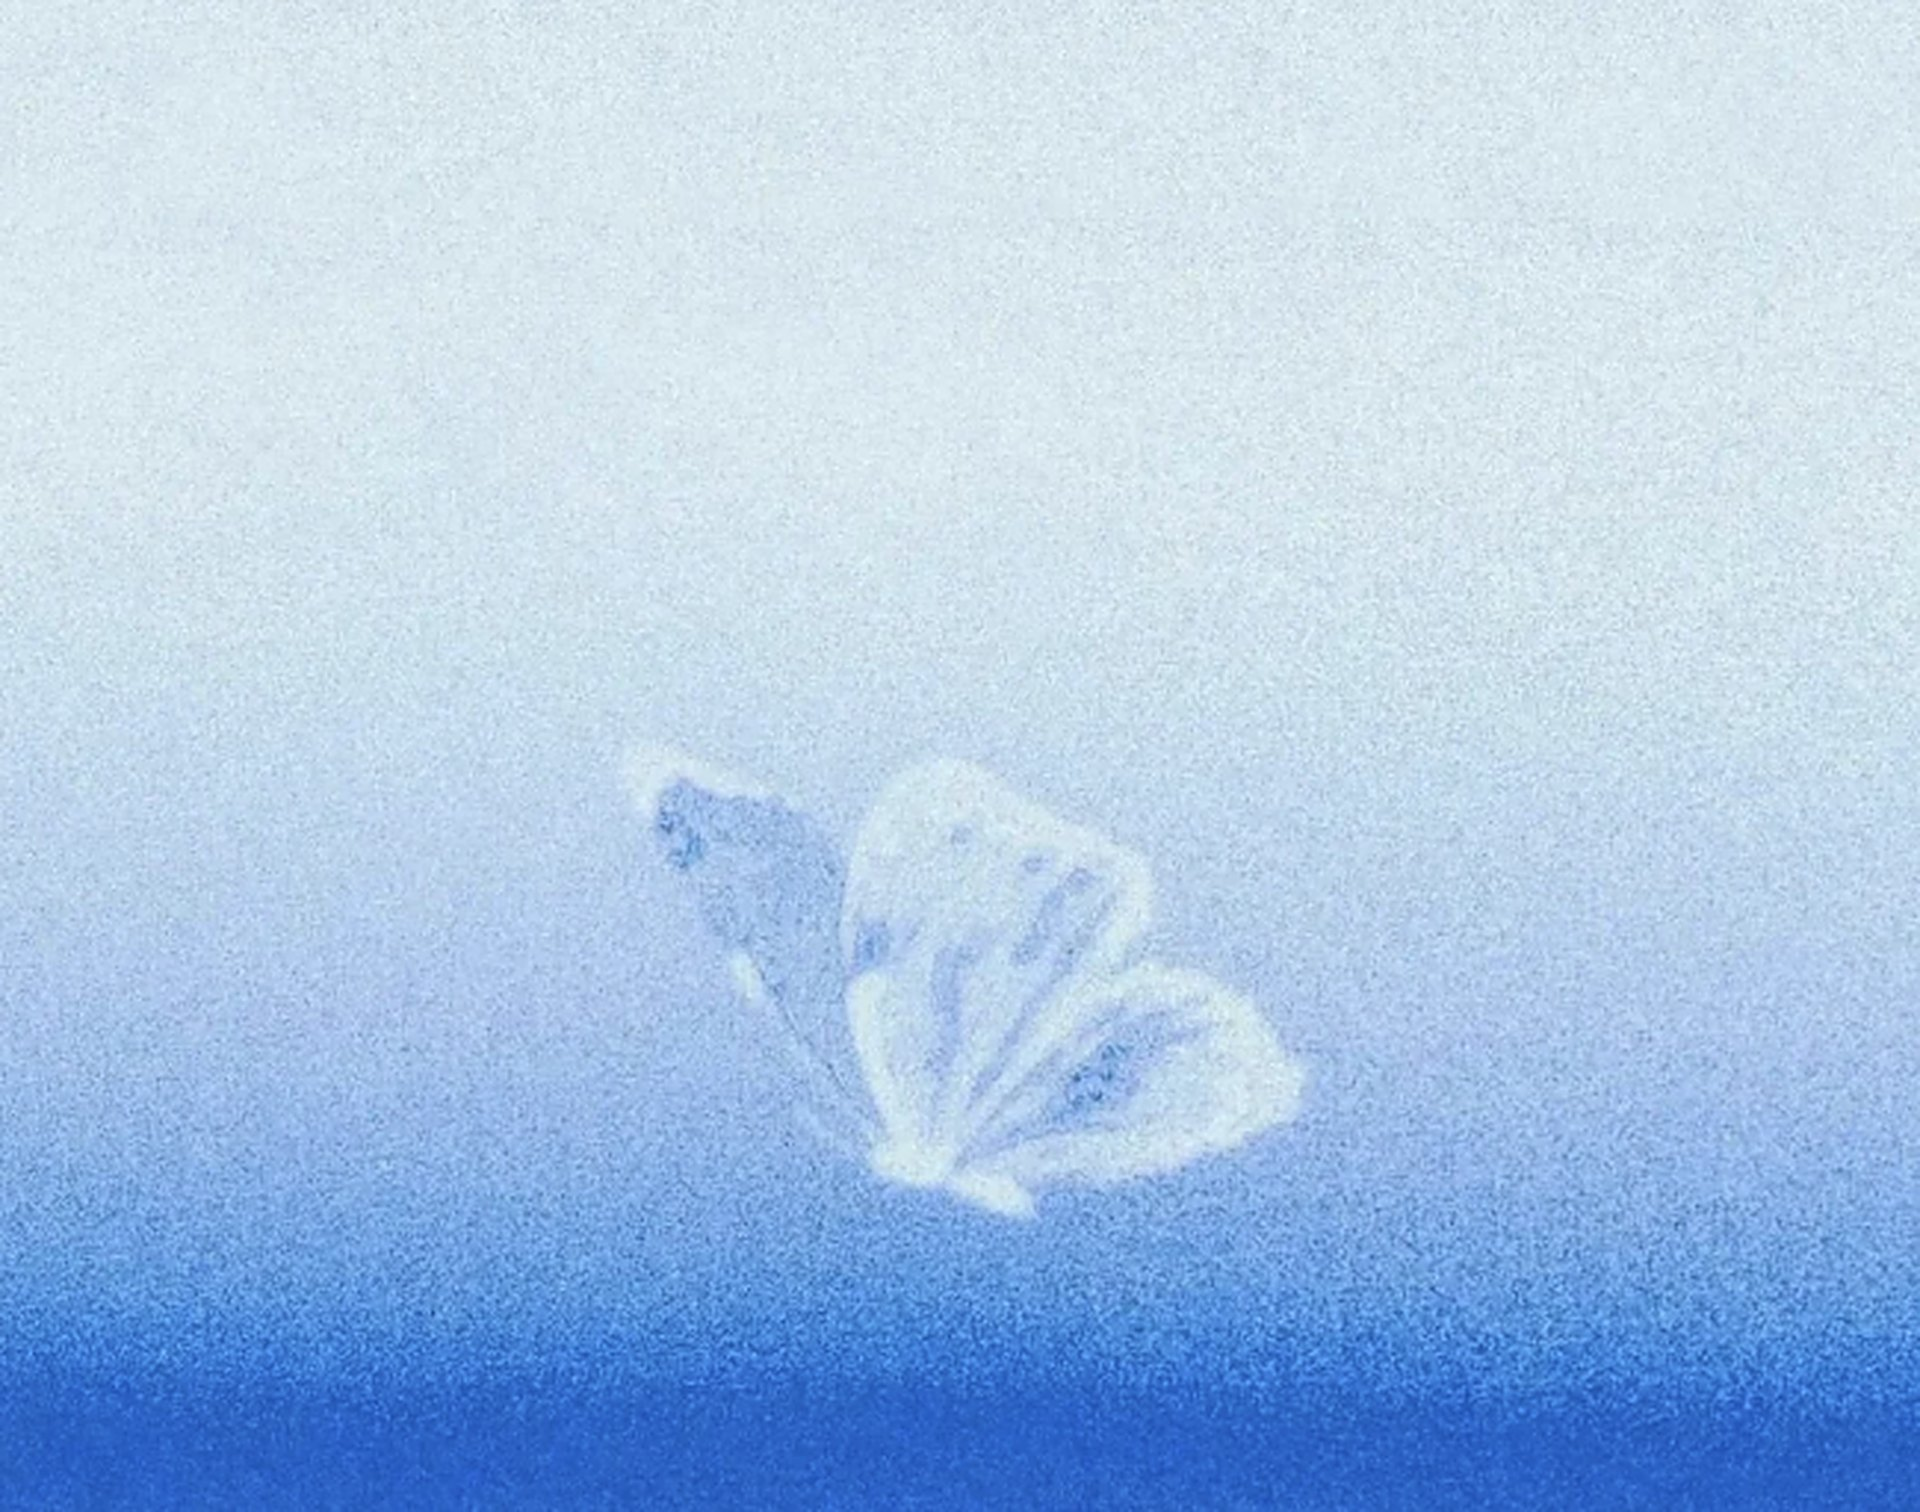
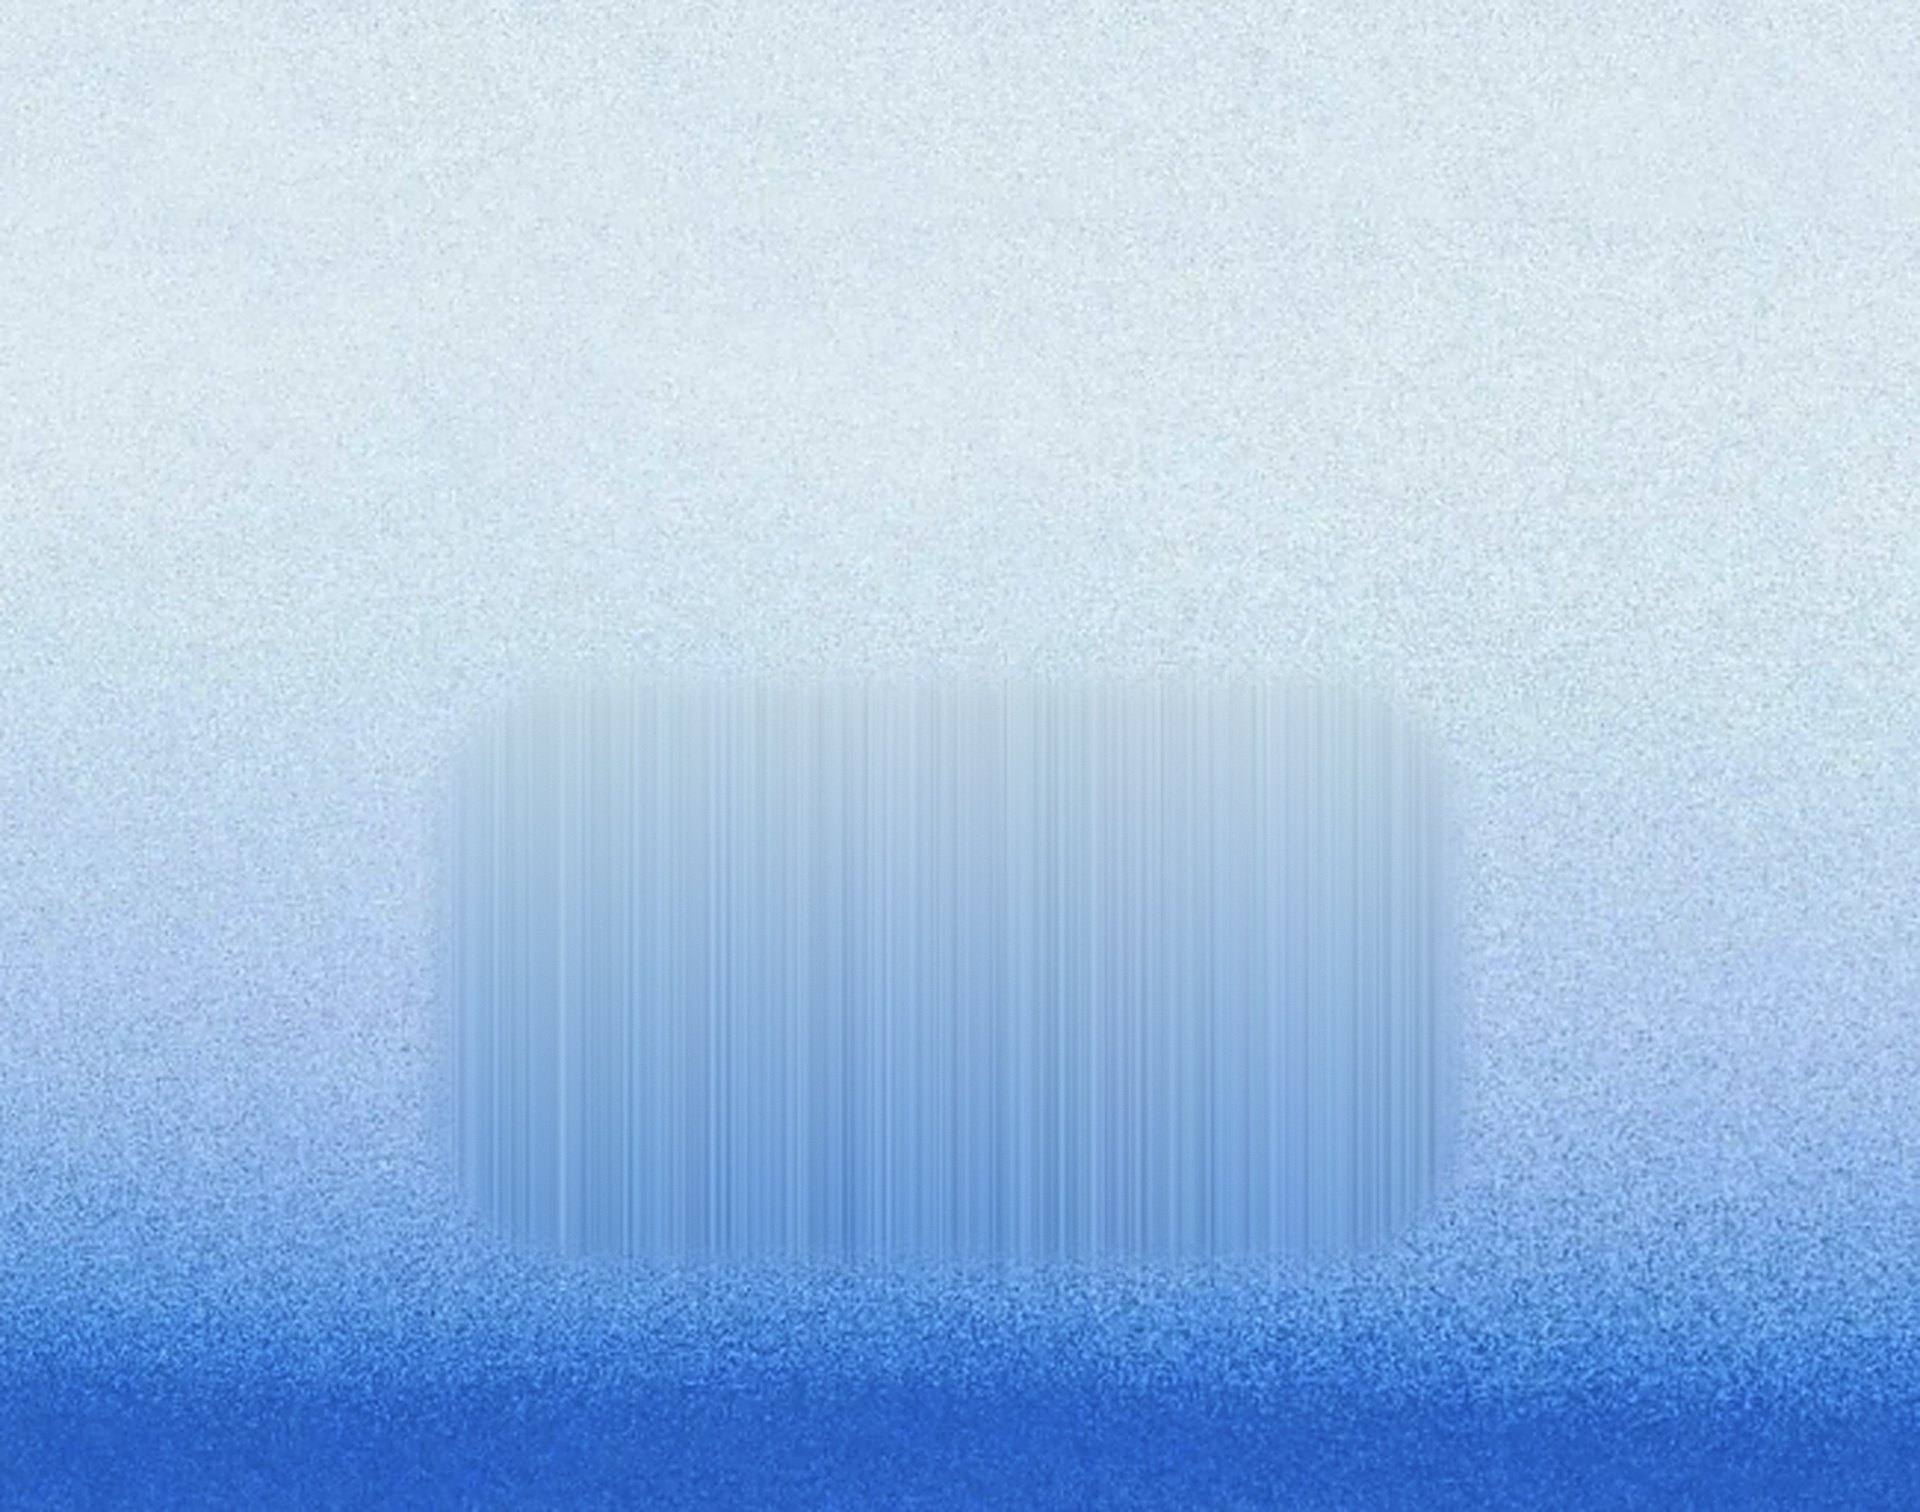
feat: 蝴蝶独立图层——Pillow蓝度键控抠图+背景原位修补，CSS微微扇动(3.4s)，JS cover对齐

Changed region(s): [[0.2188, 0.4663, 0.75, 0.8393]]

diff --git a/public/style.css b/public/style.css
@@ -289,9 +289,27 @@ body {
   background: url('bg.jpg') center / cover no-repeat;
 }
 
-/* 系统开启"减少动态效果"时隐藏浮光 */
+/* 蝴蝶独立图层：从油画中抠出，JS 按 cover 定位对齐，CSS 微扇动 */
+.bg-butterfly {
+  position: absolute;
+  pointer-events: none;
+  will-change: transform;
+  transform-origin: 50% 46%;
+  filter: drop-shadow(0 0 18px rgba(255, 255, 255, 0.32));
+  animation: flutter 3.4s ease-in-out infinite;
+}
+
+/* 微微扇动：水平轻收=合翅感 + 轻微上浮 + 姿态摇摆（低刺激） */
+@keyframes flutter {
+  0%, 100% { transform: scale(1, 1) rotate(-1deg) translateY(0); }
+  28%      { transform: scale(0.94, 1.02) rotate(0.5deg) translateY(-4px); }
+  52%      { transform: scale(1, 1.03) rotate(1.1deg) translateY(-8px); }
+  76%      { transform: scale(0.95, 1.01) rotate(0.3deg) translateY(-3px); }
+}
+
+/* 系统开启"减少动态效果"时蝴蝶静止 */
 @media (prefers-reduced-motion: reduce) {
-  .light-dot { animation: none !important; display: none; }
+  .bg-butterfly { animation: none !important; }
 }
 
 /* ============ UI 卡片化（浮于水彩之上） ============ */

diff --git a/public/index.html b/public/index.html
@@ -4,11 +4,13 @@
   <meta charset="UTF-8">
   <meta name="viewport" content="width=device-width, initial-scale=1.0">
   <title>情绪空间 · 高敏感人群情绪疏导</title>
-  <link rel="stylesheet" href="style.css?v=20261020">
+  <link rel="stylesheet" href="style.css?v=20261021">
 </head>
 <body>
-  <!-- 背景：油画风白蓝幕布（上白下蓝自然过渡，蝴蝶常驻，带油画颗粒） -->
-  <div class="bg-photo" aria-hidden="true"></div>
+  <!-- 背景：油画风白蓝幕布（上白下蓝自然过渡，带油画颗粒）+ 独立蝴蝶图层（微微扇动） -->
+  <div class="bg-photo" aria-hidden="true">
+    <img class="bg-butterfly" id="bgButterfly" src="butterfly.webp?v=1" alt="">
+  </div>
 
   <div class="app">
     <header class="header">
@@ -37,6 +39,6 @@
     </div>
   </div>
 
-  <script src="app.js?v=20261010"></script>
+  <script src="app.js?v=20261021"></script>
 </body>
 </html>

diff --git a/public/app.js b/public/app.js
@@ -392,3 +392,20 @@ userInput.addEventListener('keypress', (e) => {
 
 // 初始化选项
 renderOptions(['焦虑', '委屈', '愤怒', '疲惫', '孤独', '其他']);
+
+// 背景蝴蝶图层：按 background:cover 数学对齐（窗口变化时重算）
+(function alignBgButterfly() {
+  const img = document.getElementById('bgButterfly');
+  if (!img) return;
+  const IW = 1920, IH = 1512;   // bg.jpg 尺寸
+  const BX = 420, BY = 660, BW = 1060;  // 蝴蝶在图中的位置（抠图参数）
+  function align() {
+    const vw = window.innerWidth, vh = window.innerHeight;
+    const s = Math.max(vw / IW, vh / IH);
+    img.style.left = ((vw - IW * s) / 2 + BX * s) + 'px';
+    img.style.top = ((vh - IH * s) / 2 + BY * s) + 'px';
+    img.style.width = (BW * s) + 'px';
+  }
+  window.addEventListener('resize', align);
+  align();
+})();
